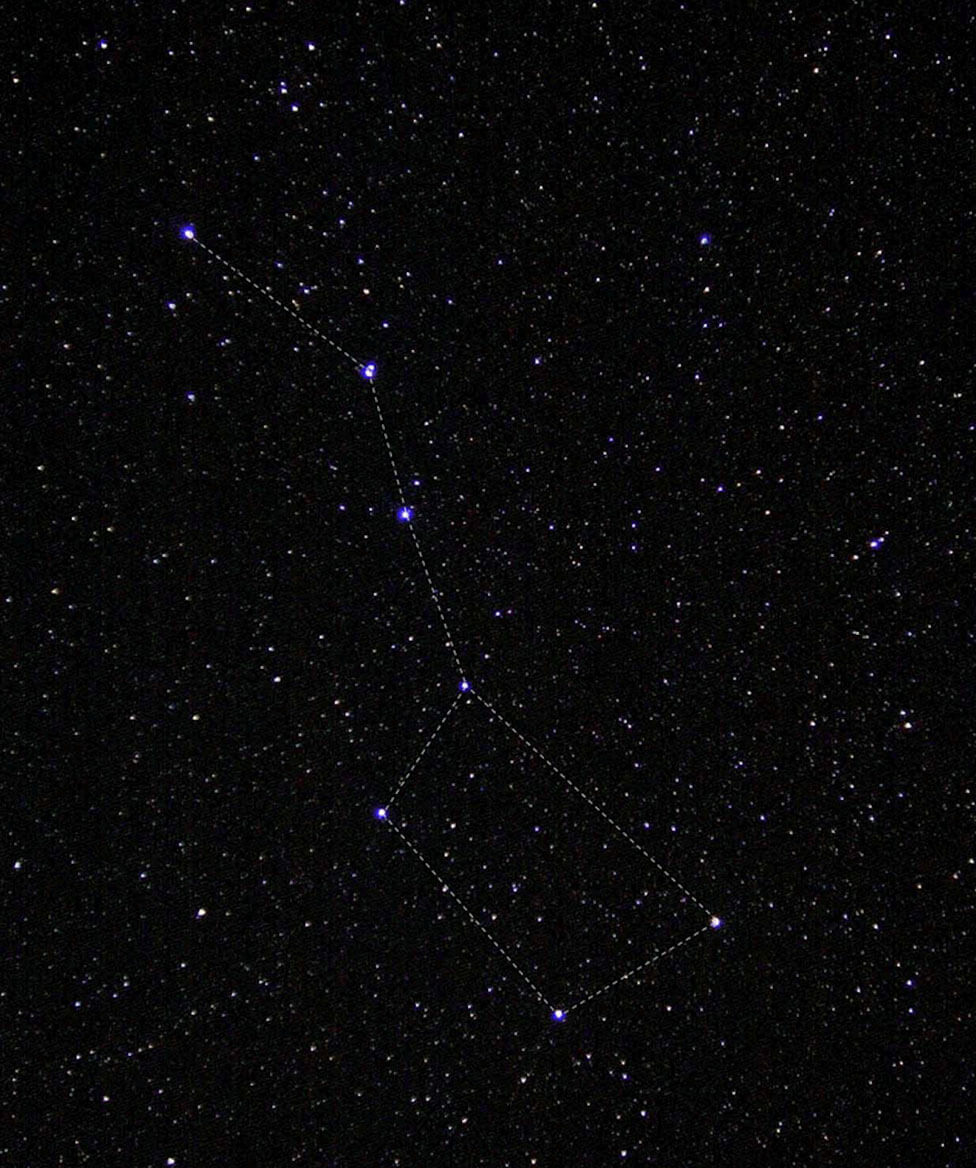
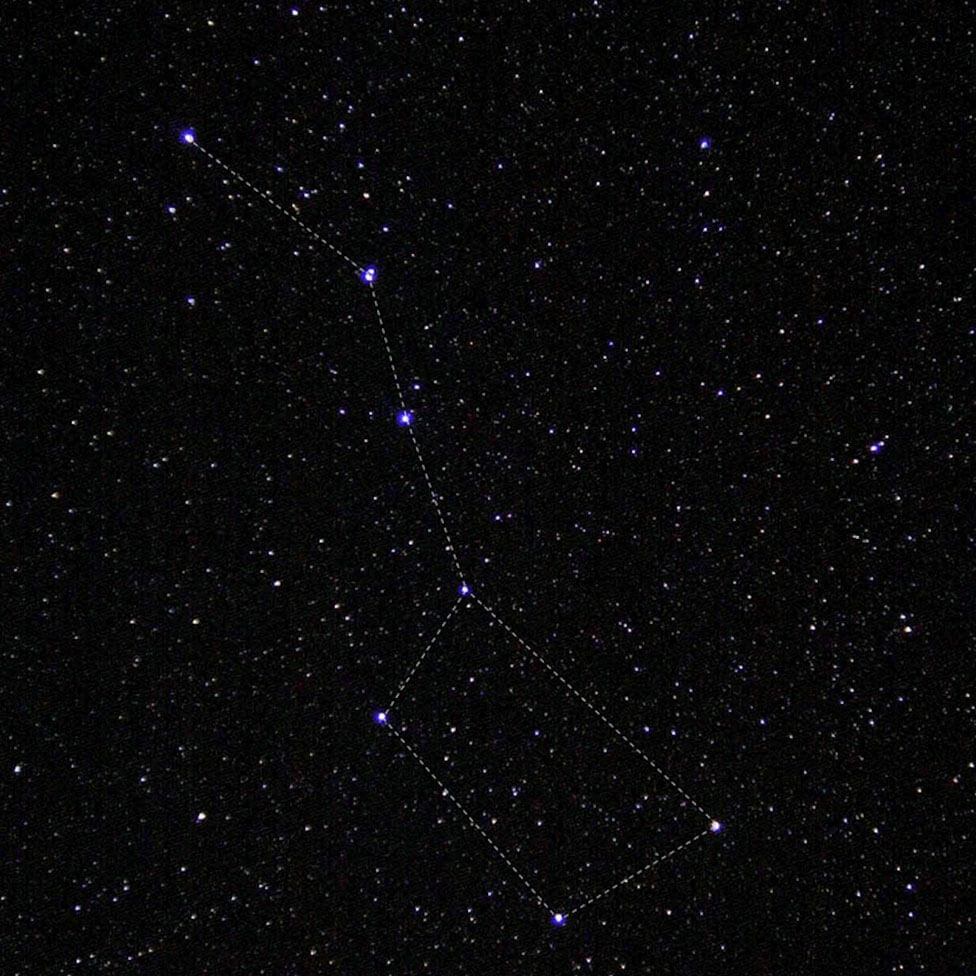
Small pictures added

diff --git a/client/src/components/Selector/Selector.jsx b/client/src/components/Selector/Selector.jsx
@@ -2,10 +2,12 @@ import './Selector.css';
 import AvailableImages from '../../AvailableImages';
 import React from "react";
 import SelectionList from './SelectionList';
+import MainPage from '../MainPage';
 
 function Selector({sendMessage, state, actions, showBrightness, imagesOnly = false}) {
 
   const [allowedChoice, setAllowedChoice] = React.useState(null);
+  const [showPreview, setShowPreview] = React.useState(false);
 
   let groups = {};
   AvailableImages.images.forEach((item) => {
@@ -24,6 +26,8 @@ function Selector({sendMessage, state, actions, showBrightness, imagesOnly = fal
     return {id: i, display: `Choice ${i+1}`, smallsrc: "images/icons/refresh.png", action: () => setAllowedChoice(i+1)};
   });
 
+  actions = [...actions, {display: showPreview ? "Hide Preview" : "Show Preview", smallsrc: "images/icons/up.png", action: () => setShowPreview(!showPreview)}];
+
 
   const imageLists = Object.keys(groups).map((groupName, id ) => {
     const group = {header: groupName, items: groups[groupName]};
@@ -39,42 +43,47 @@ function Selector({sendMessage, state, actions, showBrightness, imagesOnly = fal
   });
 
   return (
-    <div className='Selector'>
-      {imageLists}
-      {/* <SelectionList 
-        header="Images" 
-        items={AvailableImages.images} 
-        onClickItem={item => sendMessage({image: item.id})} 
-        selectedPredicate={(item) => item.id === state.image}/> */}
-      {!imagesOnly && <SelectionList 
-        header="Speeds" 
-        items={AvailableImages.speeds} 
-        onClickItem={item => sendMessage({speedId: item.id})}
-        overrideImage={"images/icons/rotating_arrows_small.jpg"}
-        selectedPredicate={(item) => item.id === state.speedId}/>}
-      {showBrightness && !imagesOnly && <SelectionList 
-        header="Brightness" 
-        items={AvailableImages.brightness} 
-        onClickItem={item => sendMessage({brightnessId: item.id})}
-        overrideImage={"images/icons/brightness.png"}
-        selectedPredicate={(item) => item.id === state.brightnessId}/>}
-      {showBrightness && !imagesOnly && <SelectionList 
-        header="Fading Timer" 
-        items={AvailableImages.fadingTimer} 
-        onClickItem={item => sendMessage({fadingTimerId: item.id})}
-        overrideImage={"images/icons/brightness.png"}
-        selectedPredicate={(item) => item.id === state.fadingTimerId}/>}
-      {!imagesOnly && <SelectionList 
-        header="Actions" 
-        items={actions} 
-        onClickItem={(item) => item.action()} 
-        selectedPredicate={_ => false}/>}
-      {imagesOnly && allowedChoice === null && <SelectionList 
-        header="Choices"
-        items={items}
-        onClickItem={(item) => item.action()}
-        selectedPredicate={_ => false}/>}
+    <div>
+      {showPreview && !imagesOnly && <MainPage state={state} />}
+
+      <div className='Selector'>
+        {imageLists}
+        {/* <SelectionList 
+          header="Images" 
+          items={AvailableImages.images} 
+          onClickItem={item => sendMessage({image: item.id})} 
+          selectedPredicate={(item) => item.id === state.image}/> */}
+        {!imagesOnly && <SelectionList 
+          header="Speeds" 
+          items={AvailableImages.speeds} 
+          onClickItem={item => sendMessage({speedId: item.id})}
+          overrideImage={"images/icons/rotating_arrows_small.jpg"}
+          selectedPredicate={(item) => item.id === state.speedId}/>}
+        {showBrightness && !imagesOnly && <SelectionList 
+          header="Brightness" 
+          items={AvailableImages.brightness} 
+          onClickItem={item => sendMessage({brightnessId: item.id})}
+          overrideImage={"images/icons/brightness.png"}
+          selectedPredicate={(item) => item.id === state.brightnessId}/>}
+        {showBrightness && !imagesOnly && <SelectionList 
+          header="Fading Timer" 
+          items={AvailableImages.fadingTimer} 
+          onClickItem={item => sendMessage({fadingTimerId: item.id})}
+          overrideImage={"images/icons/brightness.png"}
+          selectedPredicate={(item) => item.id === state.fadingTimerId}/>}
+        {!imagesOnly && <SelectionList 
+          header="Actions" 
+          items={actions} 
+          onClickItem={(item) => item.action()} 
+          selectedPredicate={_ => false}/>}
+        {imagesOnly && allowedChoice === null && <SelectionList 
+          header="Choices"
+          items={items}
+          onClickItem={(item) => item.action()}
+          selectedPredicate={_ => false}/>}
+      </div>
     </div>
+
   );
 }
 

diff --git a/client/src/App.js b/client/src/App.js
@@ -54,32 +54,32 @@ function App() {
   const actions = [
     {
       display: "Refresh Clients",
-      smallsrc: "images/refresh.png",
+      smallsrc: "images/icons/refresh.png",
       action: () => sendMessage({refresh: true}),
     },
     { 
       display: "Go Offline",
-      smallsrc: "images/right.png",
+      smallsrc: "images/icons/right.png",
       action: () => window.location.href = '/offline'
     },
     { 
       display: "Go reduced",
-      smallsrc: "images/right.png",
+      smallsrc: "images/icons/right.png",
       action: () => window.location.href = '/reducedselector'
     },
     {
       display: state.show3d ? "Turn off 3d" : "Turn on 3d",
-      smallsrc: "images/right.png",
+      smallsrc: "images/icons/right.png",
       action: () => sendMessage({show3d: !state.show3d})
     },
     {
       display: state.pointLight ? "Switch to ambient" : "Switch to point light",
-      smallsrc: "images/right.png",
+      smallsrc: "images/icons/right.png",
       action: () => sendMessage({pointLight: !state.pointLight})
     },
     {
       display: state.showStarfield ? "Hide Starfield" : "Show Starfield",
-      smallsrc: "images/right.png",
+      smallsrc: "images/icons/right.png",
       action: () => sendMessage({showStarfield: !state.showStarfield})
     }
 
